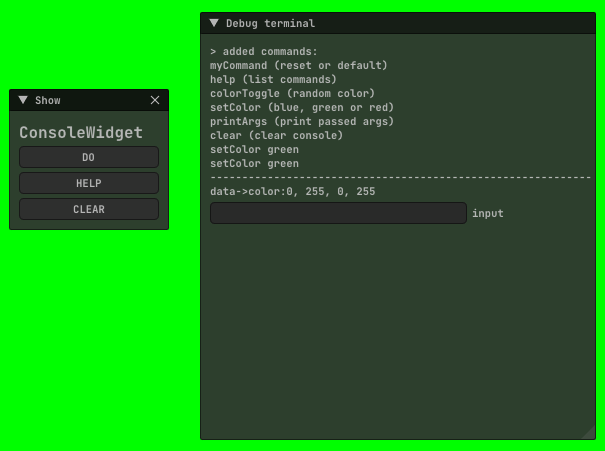
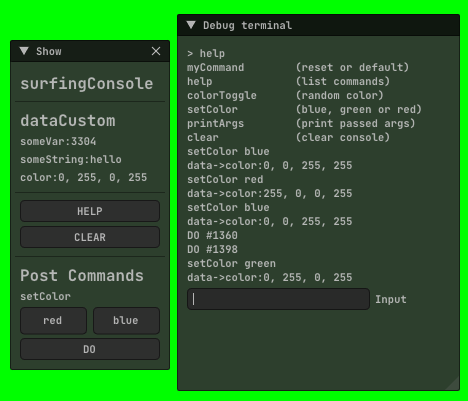
'

diff --git a/0_NewExamples WIP/00_ConsoleWidget/src/console/surfingConsole.h b/0_NewExamples WIP/00_ConsoleWidget/src/console/surfingConsole.h
@@ -58,7 +58,7 @@
 
 //--
 
-struct customType
+struct dataCustom
 {
 	ofColor color{ 0,0,0,0 };
 	int someVar = 0;
@@ -67,16 +67,16 @@ struct customType
 
 using namespace std::placeholders;
 
-#define BIND(name) _commandList.emplace(std::make_pair<std::string, std::function<void(std::stringstream args, customType* data)>>(#name, std::bind(&myCustomConsole::name, this, _1, _2)))
+#define BIND(name) _commandList.emplace(std::make_pair<std::string, std::function<void(std::stringstream args, dataCustom* data)>>(#name, std::bind(&surfingConsole::name, this, _1, _2)))
 
 //--
 
-class myCustomConsole : public console<customType*>
+class surfingConsole : public console<dataCustom*>
 {
 public:
-	myCustomConsole(bool redir = false) : console(redir)
+	surfingConsole(bool redir = false) : console(redir)
 	{
-		std::cout << "> myCustomConsole()" << " redir:" << redir << endl;
+		std::cout << "> surfingConsole()" << " redir:" << redir << endl;
 
 		addCommands();
 	};
@@ -95,9 +95,8 @@ public:
 	};
 
 private:
-	void myCommand(std::stringstream args, customType* data)
+	void myCommand(std::stringstream args, dataCustom* data)
 	{
-		std::cout << "--------------------------------------------------------------" << endl;
 		std::cout << "> myCommand" << endl;
 		std::cout << endl;
 
@@ -147,9 +146,8 @@ private:
 	};
 
 private:
-	void help(std::stringstream args, customType* data)
+	void help(std::stringstream args, dataCustom* data)
 	{
-		std::cout << "--------------------------------------------------------------" << endl;
 		std::cout << "> help" << endl;
 		std::cout << "> data" << endl;
 		std::cout << "data->someVar:" << data->someVar << endl;
@@ -159,33 +157,26 @@ private:
 		help_();
 	};
 
-	void clear(std::stringstream args, customType* data)
+	void clear(std::stringstream args, dataCustom* data)
 	{
-		std::cout << "--------------------------------------------------------------" << endl;
-
 		clearLines(data);
 	};
 
-	void printArgs(std::stringstream args, customType* data)
+	void printArgs(std::stringstream args, dataCustom* data)
 	{
-		std::cout << "--------------------------------------------------------------" << endl;
 		std::cout << "args:" << args << endl;
 		std::cout << endl;
 	};
 
-	void colorToggle(std::stringstream args, customType* data)
+	void colorToggle(std::stringstream args, dataCustom* data)
 	{
-		std::cout << "--------------------------------------------------------------" << endl;
-
 		data->color = ofColor(ofRandom(255), ofRandom(255), ofRandom(255), 255);
 		std::cout << "data->color:" << data->color << endl;
 		std::cout << endl;
 	};
 
-	void setColor(std::stringstream args, customType* data)
+	void setColor(std::stringstream args, dataCustom* data)
 	{
-		std::cout << "--------------------------------------------------------------" << endl;
-
 		//TODO: catch/filter args
 		string s = args.str();
 
@@ -202,14 +193,14 @@ private:
 public:
 	void help_()
 	{
-		std::cout << "> help_" << endl;
-		std::cout << "> Commands:" << endl;
-		std::cout << "myCommand (reset or default)" << std::endl;
-		std::cout << "help (list commands)" << std::endl;
-		std::cout << "colorToggle (random color)" << std::endl;
-		std::cout << "setColor (blue, green or red)" << std::endl;
-		std::cout << "printArgs (print passed args)" << std::endl;
-		std::cout << "clear (clear console)" << std::endl;
+		std::cout << "> help" << endl;
+		std::cout << endl;
+		std::cout << "myCommand   \t (reset or default)" << std::endl;
+		std::cout << "help        \t (list commands)" << std::endl;
+		std::cout << "colorToggle \t (random color)" << std::endl;
+		std::cout << "setColor    \t (blue, green or red)" << std::endl;
+		std::cout << "printArgs   \t (print passed args)" << std::endl;
+		std::cout << "clear       \t (clear console)" << std::endl;
 		std::cout << endl;
 	};
 

diff --git a/0_NewExamples WIP/00_ConsoleWidget/src/ofApp.cpp b/0_NewExamples WIP/00_ConsoleWidget/src/ofApp.cpp
@@ -10,7 +10,7 @@ void ofApp::exit()
 //--------------------------------------------------------------
 void ofApp::setup()
 {
-	data = new customType();
+	data = new dataCustom();
 	data->color = ofColor::fuchsia;
 	data->someString = "hello";
 	data->someVar = -1;
@@ -21,7 +21,9 @@ void ofApp::draw()
 {
 	ofClear(data->color);
 
-	data->someVar = ofGetFrameNum();//update data
+	//update data
+	data->someVar = ofGetFrameNum();
+
 	string title = ofToString(data->someVar);
 	ofSetWindowTitle(title);
 
@@ -31,25 +33,30 @@ void ofApp::draw()
 	{
 		if (ui.BeginWindow(bGui))
 		{
-			ui.AddLabelBig("ConsoleWidget");
+			ui.AddLabelBig("surfingConsole");
+			ui.AddSpacingSeparated();
 
-			if (ui.AddButton("DO")) {
-				s = "DO #" + ofToString(ofGetFrameNum());
-				addToLog(s);
-				c.addLine(s);
-			}
+			ui.AddLabelBig("dataCustom");
+			ui.AddLabel("someVar:" + ofToString(data->someVar));
+			ui.AddLabel("someString:" + ofToString(data->someString));
+			ui.AddLabel("color:" + ofToString(data->color));
+			ui.AddSpacingSeparated();
 
 			if (ui.AddButton("HELP")) {
-				c.help_();
 				s = "HELP";
 				addToLog(s);
+
+				c.help_();
 			}
 			if (ui.AddButton("CLEAR")) {
 				s = "CLEAR";
 				addToLog(s);
+				
 				c.clear_();
 			}
+			ui.AddSpacingSeparated();
 
+			ui.AddLabelBig("Post Commands");
 			ui.AddLabel("setColor");
 			if (ui.AddButton("red", OFX_IM_BUTTON, 2, true)) {
 				s = "setColor red";
@@ -58,6 +65,12 @@ void ofApp::draw()
 			if (ui.AddButton("blue", OFX_IM_BUTTON, 2)) {
 				s = "setColor blue";
 				c.addLineCommnand(s, data);
+			}
+
+			if (ui.AddButton("DO")) {
+				s = "DO #" + ofToString(ofGetFrameNum());
+				addToLog(s);
+				c.addLine(s);
 			}
 
 			ui.EndWindow();

diff --git a/0_NewExamples WIP/00_ConsoleWidget/src/ofApp.h b/0_NewExamples WIP/00_ConsoleWidget/src/ofApp.h
@@ -22,9 +22,9 @@ public:
 	ofxSurfingGui ui;
 	ofParameter<bool> bGui{ "Show", true };
 
-	customType* data = NULL;
+	dataCustom* data = NULL;
 
-	myCustomConsole c = { 1 };
+	surfingConsole c = { 1 };
 
 	void addToLog(string s);
 };
